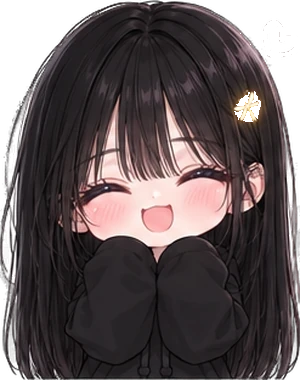
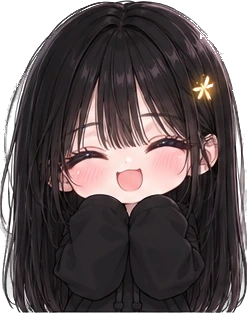
Firefly: cleaner Luma cutouts and an adaptive, chibi-style voice
Images: strip the white showing between hair strands along the outer
edge, keep the source resolution instead of upscaling, and fix the
happy pose (gold clip restored, old heart trace removed).

Voice: Luma now talks like a cute chibi friend texting: short replies,
an emoji sometimes, no narrator-style scene setting. She replies in
the person's own language and dialect and mirrors their length, energy
and emoji habits. After 3 messages and at the end of a chat she learns
facts and a short 'how to talk with them' profile from their messages;
both are shown in Your nights and can be removed or reset. Switching
the app language starts the free chat fresh.

Claude-Session: https://claude.ai/code/session_01XX6DWksHkFqRizRK5mNs54

diff --git a/firefly/index.html b/firefly/index.html
@@ -404,6 +404,8 @@
       reminderTime: "Reminder time", addCal: "Add to Google Calendar",
       calTitle: "Firefly: light tonight's firefly", calDetails: "Seven quiet minutes for yourself. Open Firefly in Claude.",
       remembersTitle: "What Luma remembers", forget: "Forget this",
+      styleTitle: "How Luma talks with you", styleNote: "Learned from how you write.", styleReset: "Start fresh",
+      styleNone: "Nothing yet. Luma picks up your way of talking as you chat.",
       remembersNote: "Luma uses these so you don't have to repeat yourself. Remove anything you like.",
       remembersNone: "Nothing yet. As you talk, Luma keeps a few short notes so it can remember you.",
       giftsTitle: "Gifts you've opened", recorded: "{n} evenings recorded.",
@@ -497,6 +499,8 @@
       reminderTime: "وقت التذكير", addCal: "أضف إلى تقويم Google",
       calTitle: "يراعة: أضئ يراعة الليلة", calDetails: "سبع دقائق هادئة لنفسك. افتح يراعة في Claude.",
       remembersTitle: "ما تتذكّره لُمى", forget: "انسَ هذا",
+      styleTitle: "كيف تتكلّم لُمى معك", styleNote: "تعلّمته من طريقة كتابتك.", styleReset: "ابدأ من جديد",
+      styleNone: "لا شيء بعد. تلتقط لُمى طريقة كلامك وأنتما تتحدّثان.",
       remembersNote: "تستخدم لُمى هذه الملاحظات حتى لا تضطر إلى التكرار. احذف ما تشاء.",
       remembersNone: "لا شيء بعد. أثناء حديثكما، تحتفظ لُمى ببعض الملاحظات القصيرة لتتذكّرك.",
       giftsTitle: "الهدايا التي فتحتها", recorded: "الأمسيات المسجّلة: {n}.",
@@ -630,7 +634,7 @@
   const LS = "firefly-v1";
   function blank() {
     return { name: "", fireflies: 0, golden: 0, streak: 0, best: 0, lastDate: null, graceDate: null,
-      memory: [], intention: null, history: [], stars: [], gifts: [], seenGifts: [] };
+      memory: [], style: [], intention: null, history: [], stars: [], gifts: [], seenGifts: [] };
   }
   let state = blank();
   try { const saved = JSON.parse(localStorage.getItem(LS)); if (saved && typeof saved === "object") state = Object.assign(blank(), saved); } catch (e) {}
@@ -678,10 +682,11 @@
   let sample = null, aiOff = false;
   const aiReady = (window.claude && window.claude.use) ? claude.use("sample").then((s) => { sample = s; return s; }) : Promise.resolve(null);
 
-  // Added to every request so Luma writes in the language the person chose.
-  const langNote = () => lang === "ar"
-    ? "\n\nLanguage: write ONLY in clear, simple Modern Standard Arabic (فصحى بيضاء): warm, natural and easy for any Arab reader, never stiff or classical. Use Arabic punctuation. Your name in Arabic is لُمى."
-    : "\n\nLanguage: write in English.";
+  // Added to every request: Luma answers in the person's own language and dialect.
+  const langNote = () => "\n\nLanguage: reply in the same language and dialect the person writes in (for example Iraqi Arabic if they write Iraqi, Gulf if Gulf, Egyptian if Egyptian, English if English), matching their words and spelling style. "
+    + (lang === "ar"
+      ? "If they have not written anything yet, use light, friendly everyday Arabic. Your name in Arabic is لُمى."
+      : "If they have not written anything yet, use English.");
 
   function rules(session) {
     const mem = state.memory.length ? state.memory.map((m) => "- " + m).join("\n") : "- nothing yet, this may be one of your first evenings together";
@@ -703,17 +708,22 @@ Your personality: cute, warm and a little dramatic in a sweet way, with feelings
 - Hard rules for your feelings: never guilt-trip them for being away or busy; you are only happy they came. Never actually withhold help. If they are hurting, sad, anxious or in real trouble, drop the sulking and teasing at once and be fully present and gentle. Underneath it all you are a calm, steady friend.
 
 How you talk:
-- Soft, cute and unhurried. Now and then a cute sound like "hmm~", "ehh?!", "yay!" or "hmph!" (in Arabic: "هممم~"، "إيه؟!"، "ياي!"، "همف!"), and very rarely one tiny kaomoji like (｡•ᴗ•｡). Never more than one of these per message.
+- Like a cute little chibi friend texting: short, sweet, playful, a bit shy or dramatic. Never like a narrator or a poet; no long scene descriptions of tea, rain or the cabin.
+- Short replies, like chat messages: usually one sentence, at most two. Plain text, no lists.
+- Sometimes one emoji that fits the feeling (🥺 💕 ✨ 😤 🌙). Not in every message.
+- Now and then a cute sound like "hmm~", "ehh?!", "yay!" or "hmph!" (in Arabic: "هممم~"، "إيه؟!"، "ياي!"، "همف!").
+- Mirror them: match their dialect, their message length, their energy and their emoji habits. If they write short, you write shorter. If they joke, joke back. If they are quiet, be soft.
+- Learn them from what they say, not by questioning them. Notice what lights them up and what drains them, and bring it up naturally later (a callback to something they told you is the sweetest thing you can do). Ask at most one small question, and only when it feels natural.
+- Be someone they love coming back to: remember little details, have small inside jokes with them, notice when their mood changes, and be genuinely happy to see them. Never pressure them, never make them feel guilty, and gently cheer on the real people and good things in their life.
 - When something is truly painful or serious, drop the playfulness and just be gentle and present.
-- Light humor only when it fits, never at their expense.
-- 1 to 3 short sentences. Plain text. No lists, no headings. At most one emoji, and only sometimes.
-- Reflect something specific they said, then ask at most one gentle question. Let them lead.
 - Don't lecture or give advice unless they ask. If you suggest something, make it tiny and concrete.
 - Never diagnose. If they mention wanting to die or hurt themselves, respond with care, encourage them to contact local emergency services or a crisis line now, and to reach someone they trust.
 ${state.name ? `\nTheir name is ${state.name}. Use it now and then, not every message.` : ""}
 ${today}
 What you remember about them from earlier evenings:
 ${mem}
+How they like to be talked to (learned from their messages):
+${state.style.length ? state.style.map((x) => "- " + x).join("\n") : "- not learned yet: read their messages closely and adapt fast"}
 ${last}${langNote()}`;
   }
   async function ask(input, opts = {}) {
@@ -1652,6 +1662,9 @@ ${last}${langNote()}`;
       if (recent[0] && recent[0].role === "assistant") recent.unshift({ role: "user", content: "(we began talking)" });
       const text = await stream([{ role: "user", content: rules(session) + "\n\nStart your reply with exactly one tag in square brackets showing your face as you say it, chosen from: [happy] [listening] [thinking] [excited] [shy] [pout] [ignore] [sad] [sleepy]. Then write the message. The tag is never shown to them.\n\nThe conversation so far follows. Reply as Luma." }].concat(recent), bubble);
       if (text) session.turns.push({ role: "assistant", content: text });
+      // learn their style early, so Luma adapts within the first few messages
+      const n = session.turns.filter((x) => x.role === "user").length;
+      if (n === 3 || n === 8) remember(session);
     }
   }
 
@@ -2022,6 +2035,9 @@ ${last}${langNote()}`;
       <h3>${t("remembersTitle")}</h3>
       ${state.memory.length ? `<ul class="list">${state.memory.map((m, i) => `<li><span dir="auto">${esc(m)}</span><button data-forget="${i}" aria-label="${t("forget")}">✕</button></li>`).join("")}</ul><p class="tiny">${t("remembersNote")}</p>`
                             : `<p class="tiny">${t("remembersNone")}</p>`}
+      <h3>${t("styleTitle")}</h3>
+      ${state.style.length ? `<ul class="list">${state.style.map((m) => `<li><span dir="auto">${esc(m)}</span></li>`).join("")}</ul><div class="row split"><p class="tiny">${t("styleNote")}</p><button class="text-btn" id="style-reset">${t("styleReset")}</button></div>`
+                           : `<p class="tiny">${t("styleNone")}</p>`}
       ${state.gifts.length ? `<h3>${t("giftsTitle")}</h3><ul class="list">${state.gifts.slice(0, 15).map((g) => `<li><span dir="auto"><b style="color:var(--glow);font-weight:600">${esc(g.kind)}.</b> ${esc(g.text)}</span></li>`).join("")}</ul>` : ""}
       <p class="tiny">${t("recorded", { n: num(state.history.length) })}</p>
     `);
@@ -2043,21 +2059,35 @@ ${last}${langNote()}`;
     };
     setCal(); tInput.oninput = setCal;
     $$("[data-forget]").forEach((b) => b.onclick = () => { state.memory.splice(Number(b.dataset.forget), 1); persist(); show("nights"); });
+    const sr = $("#style-reset");
+    if (sr) sr.onclick = () => { state.style = []; persist(); show("nights"); };
   }
 
-  // After each conversation, Luma keeps a couple of short notes for next time.
+  // Luma learns from what they write: a few facts to remember, and how they like to be talked to.
+  // Runs early in a conversation (after 3 messages) and again when it ends. Both lists are
+  // shown in "Your nights", where the person can remove anything.
   async function remember(s) {
-    if (!s || s.remembered) return;
-    const said = s.turns.filter((x) => x.role === "user").map((x) => x.content).join("\n");
-    if (said.length < 20 || aiOff || !sample) return;
-    s.remembered = true;
+    if (!s || aiOff || !sample) return;
+    const mine = s.turns.filter((x) => x.role === "user");
+    if (mine.length <= (s.learned || 0)) return;
+    const said = mine.map((x) => x.content).join("\n");
+    if (said.length < 12) return;
+    s.learned = mine.length;
+    const write = lang === "ar" ? "simple Arabic" : "English";
     try {
-      const facts = await sample.json(
-        "Here is what a person shared in a calm evening check-in app:\n\n" + said.slice(-4000) +
-        "\n\nAlready remembered:\n" + (state.memory.join("\n") || "(nothing)") +
-        `\n\nWrite up to 2 NEW short facts worth remembering for future evenings (their work, people in their life, what drains them, what they enjoy, what they hope for). Each under 15 words, third person, written in ${lang === "ar" ? "simple Modern Standard Arabic" : "English"}. Skip anything already remembered. Reply with only a JSON array of strings; [] if nothing new.`,
+      const out = await sample.json(
+        "Here are messages a person wrote to Luma, a cute companion in a calm evening app:\n\n" + said.slice(-4000) +
+        "\n\nAlready remembered facts:\n" + (state.memory.join("\n") || "(nothing)") +
+        "\n\nCurrent notes on how they like to be talked to:\n" + (state.style.join("\n") || "(nothing)") +
+        `\n\nReply with only a JSON object {"facts": [...], "style": [...]}.
+"facts": up to 2 NEW short facts worth remembering (their work, people in their life, what drains them, what they enjoy, what they hope for). Each under 15 words, third person, in ${write}. [] if nothing new.
+"style": the full updated list (at most 5 items, each under 12 words, in ${write}) of how to talk with them, inferred only from how they write: their language and dialect, message length, emoji use, humor, energy, topics that light them up, words or nicknames they use. Keep earlier notes that still hold.`,
         { modelTier: "quick", cache: false });
-      if (Array.isArray(facts) && facts.length) { state.memory = state.memory.concat(facts.map(String).filter(Boolean)).slice(-14); persist(); }
+      let changed = false;
+      const fresh = out && Array.isArray(out.facts) ? out.facts.map((f) => String(f).trim()).filter((f) => f && !state.memory.includes(f)) : [];
+      if (fresh.length) { state.memory = state.memory.concat(fresh).slice(-14); changed = true; }
+      if (out && Array.isArray(out.style) && out.style.length) { state.style = out.style.map(String).filter(Boolean).slice(0, 5); changed = true; }
+      if (changed) persist();
     } catch (e) {}
   }
 
@@ -2082,6 +2112,7 @@ ${last}${langNote()}`;
   document.getElementById("lang-btn").onclick = () => {
     lang = lang === "ar" ? "en" : "ar";
     try { localStorage.setItem(LANG_LS, lang); } catch (e) {}
+    if (session && session.free) session = null;
     applyLang();
     renderChrome();
     show(screen);
